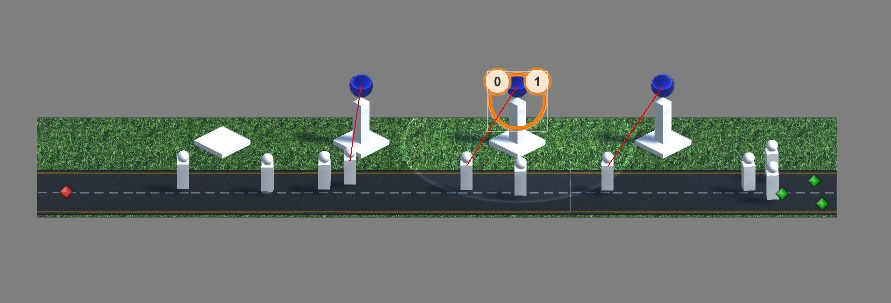
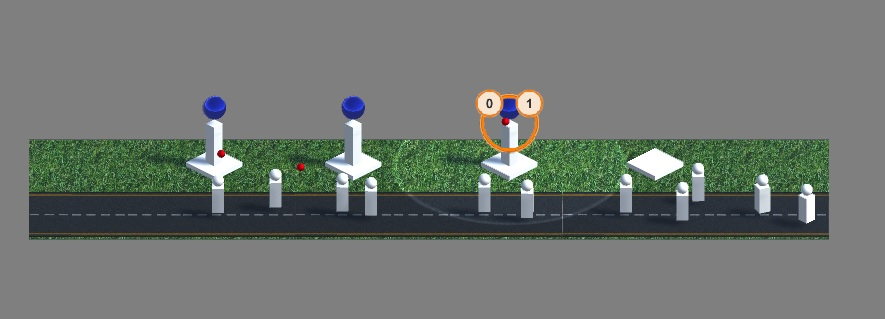
I'm back!
Shooting implemented. Few steps from first playable version.

Changed region(s): [[0.0305, 0.2079, 0.9458, 0.7723]]

diff --git a/Assets/Scripts/Shoot.cs b/Assets/Scripts/Shoot.cs
@@ -7,22 +7,31 @@ using UnityEngine;
 /// </summary>
 
 public class Shoot : MonoBehaviour {
-	public GameObject target; // FIXME: Get the target from controlling script.
 	public GameObject bulletPrefab; // FIXME: Set by controlling script.
-	public float shootingCD = 1f;
-	public float damage = 1f;
+	public float shootingCD = 0.2f;
+	public float bulletDamage = 1f;
+	public float bulletSpeed = 6f;
 
 	float timePassed;
+	TowerController towerController;
 
 	void Start(){
 		timePassed = 0;
+		shootingCD = 0.2f;
+		bulletDamage = 1f;
+		bulletSpeed = 8f;
+		towerController = GetComponent<TowerController> ();
 	}
 
 	void Update(){
 		timePassed += Time.deltaTime;
-		if(timePassed >= shootingCD){
-			// TODO: Add bullet creation.
-			timePassed = 0;
+		if(timePassed >= shootingCD && towerController.target != null && towerController.shootingBase!=null){
+			UnitController unitController = towerController.target.GetComponent<UnitController> ();
+			if (unitController != null) {
+				GameObject newBullet = Instantiate (bulletPrefab, towerController.shootingBase.position, Quaternion.identity);
+				newBullet.GetComponent<BulletController> ().Init (unitController, bulletSpeed, bulletDamage);
+				timePassed = 0;
+			}
 		}
 	}
 }

diff --git a/Assets/Scripts/BulletController.cs b/Assets/Scripts/BulletController.cs
@@ -1,0 +1,38 @@
+using System.Collections;
+using System.Collections.Generic;
+using UnityEngine;
+
+public class BulletController : MonoBehaviour {
+	float speed;
+	UnitController target;
+	float damage;
+
+	void Update () {
+		// FIXME: Deal with bullets still flying towards destoryed unit.
+		if (target != null)
+			transform.position = Vector3.MoveTowards (transform.position, target.shootingTarget.position, Time.deltaTime * speed);
+		else
+			Destroy (gameObject);
+	}
+
+	public void Init(UnitController target, float speed, float damage){
+		this.target = target;
+		this.speed = speed;
+		this.damage = damage;
+	}
+
+	void OnTriggerEnter(Collider unitCollider){
+		Debug.Log (gameObject.name + "::OnCollisionEnter");
+		if(unitCollider.gameObject.tag == "Enemy"){
+			Health enemyHealth = unitCollider.gameObject.GetComponent<Health> ();
+			if (enemyHealth != null)
+				DealDamage (enemyHealth);
+		}
+	}
+
+	void DealDamage(Health enemyHealth){
+		Debug.Log(enemyHealth.gameObject.name+" was hit.");
+		enemyHealth.TakeDamage (damage);
+		Destroy (gameObject);
+	}
+}

diff --git a/Assets/Scripts/TowerController.cs b/Assets/Scripts/TowerController.cs
@@ -27,8 +27,8 @@ public class TowerController : MonoBehaviour {
 	}
 	bool _isSelected = false;
 
-	Transform shootingBase;
-	GameObject target;
+	public Transform shootingBase;
+	public GameObject target;
 	Projector rangeProjector;
 	TowerModelController towerModelController;
 
@@ -55,7 +55,7 @@ public class TowerController : MonoBehaviour {
 
 		if (target != null && shootingBase != null){
 			Transform unitTarget = target.GetComponent<UnitController> ().shootingTarget;
-			Debug.DrawLine (shootingBase.position, unitTarget.position,Color.red);
+			//Debug.DrawLine (shootingBase.position, unitTarget.position,Color.red);
 
 		}
 	}
@@ -82,7 +82,7 @@ public class TowerController : MonoBehaviour {
 	public void OnClick(){
 		// TODO: Implement selection.
 		// TODO: Implement selection shader.
-		Debug.Log (gameObject.name + " :: OnClick");
+		//Debug.Log (gameObject.name + " :: OnClick");
 		if (onTowerClicked != null)
 			onTowerClicked (gameObject);
 	}

diff --git a/Assets/Scripts/TowerModelController.cs b/Assets/Scripts/TowerModelController.cs
@@ -67,7 +67,7 @@ public class TowerModelController : MonoBehaviour {
 		bc.size = b.size;
 		bc.center = b.center - transform.position;
 		towerCenter = bc.center;
-		Debug.Log (gameObject.name + " :: ChangeColliderSize - Tower Center = " + towerCenter);
+		//Debug.Log (gameObject.name + " :: ChangeColliderSize - Tower Center = " + towerCenter);
 	}
 
 	// TODO: Add ChangeModel.

diff --git a/Assets/Scripts/UnitController.cs b/Assets/Scripts/UnitController.cs
@@ -32,6 +32,7 @@ public class UnitController : MonoBehaviour {
 			return;
 		}
 		// TODO: Add unit death animation.
+		Debug.Log(gameObject.name + " is dead.");
 		Destroy (gameObject);
 	}
 
